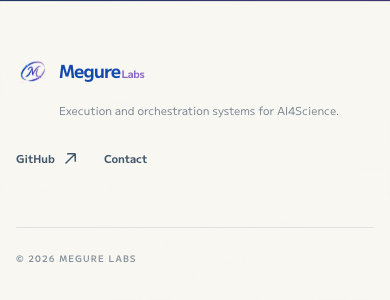
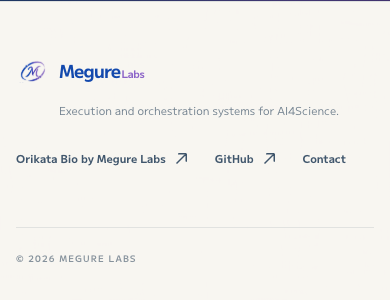
feat: link Megure Labs to Orikata Bio

diff --git a/src/app/page.tsx b/src/app/page.tsx
@@ -401,6 +401,10 @@ export default function Home() {
             <p>Execution and orchestration systems for AI4Science.</p>
           </div>
           <div className="footer-links">
+            <a href="https://orikata.ai" target="_blank" rel="noreferrer">
+              Orikata Bio by Megure Labs
+              <Arrow diagonal />
+            </a>
             <a href="https://github.com/megure-labs" target="_blank" rel="noreferrer">
               GitHub
               <Arrow diagonal />
